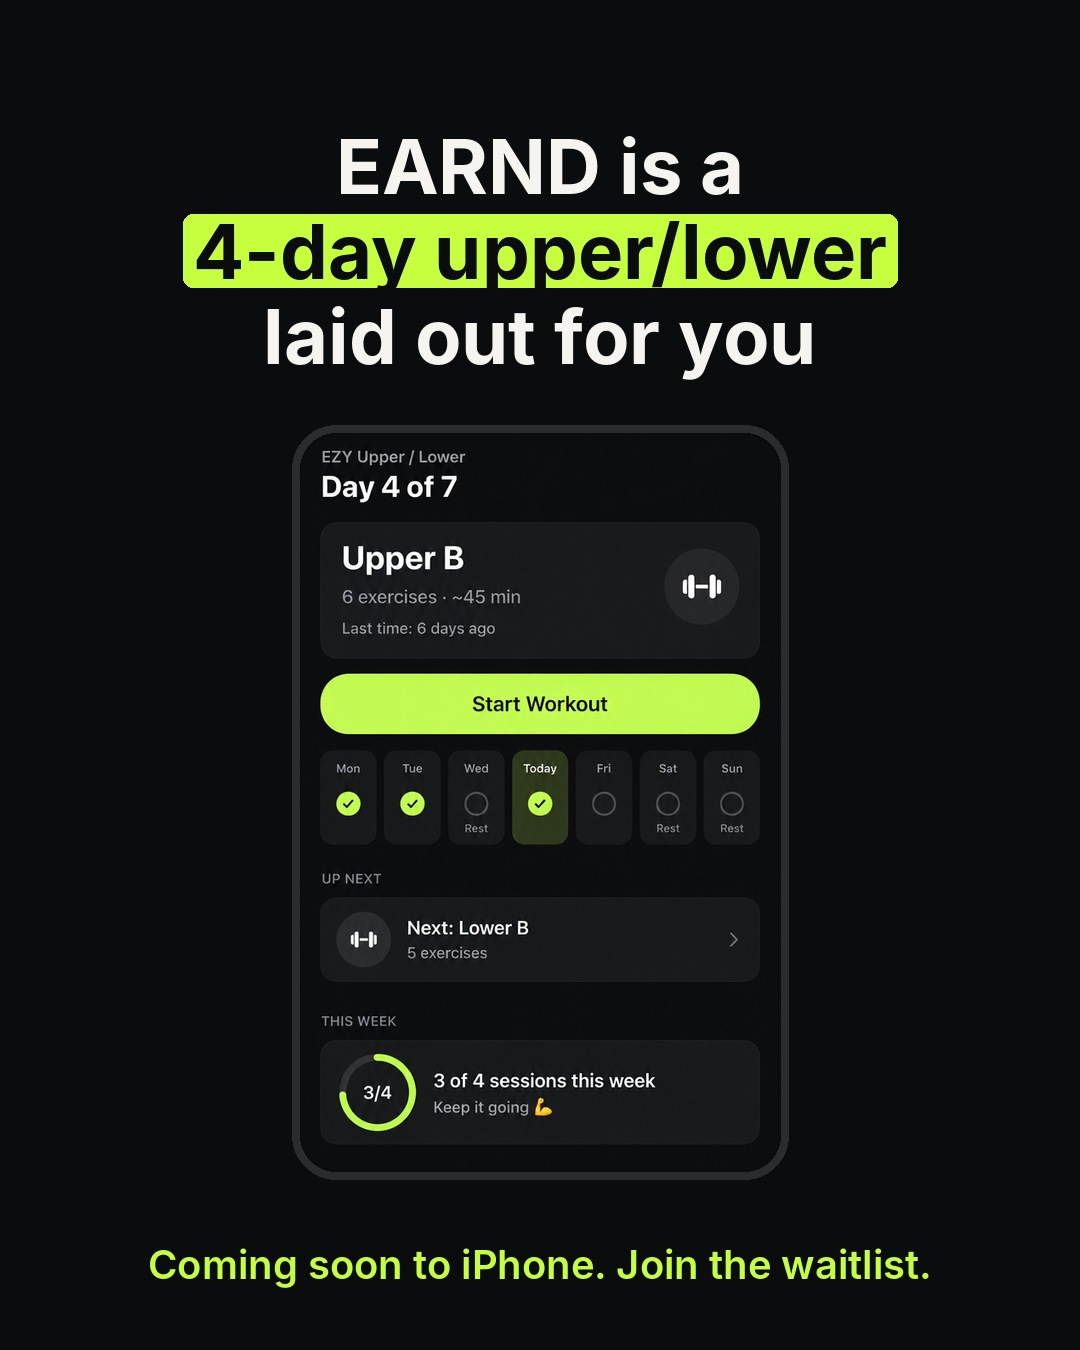
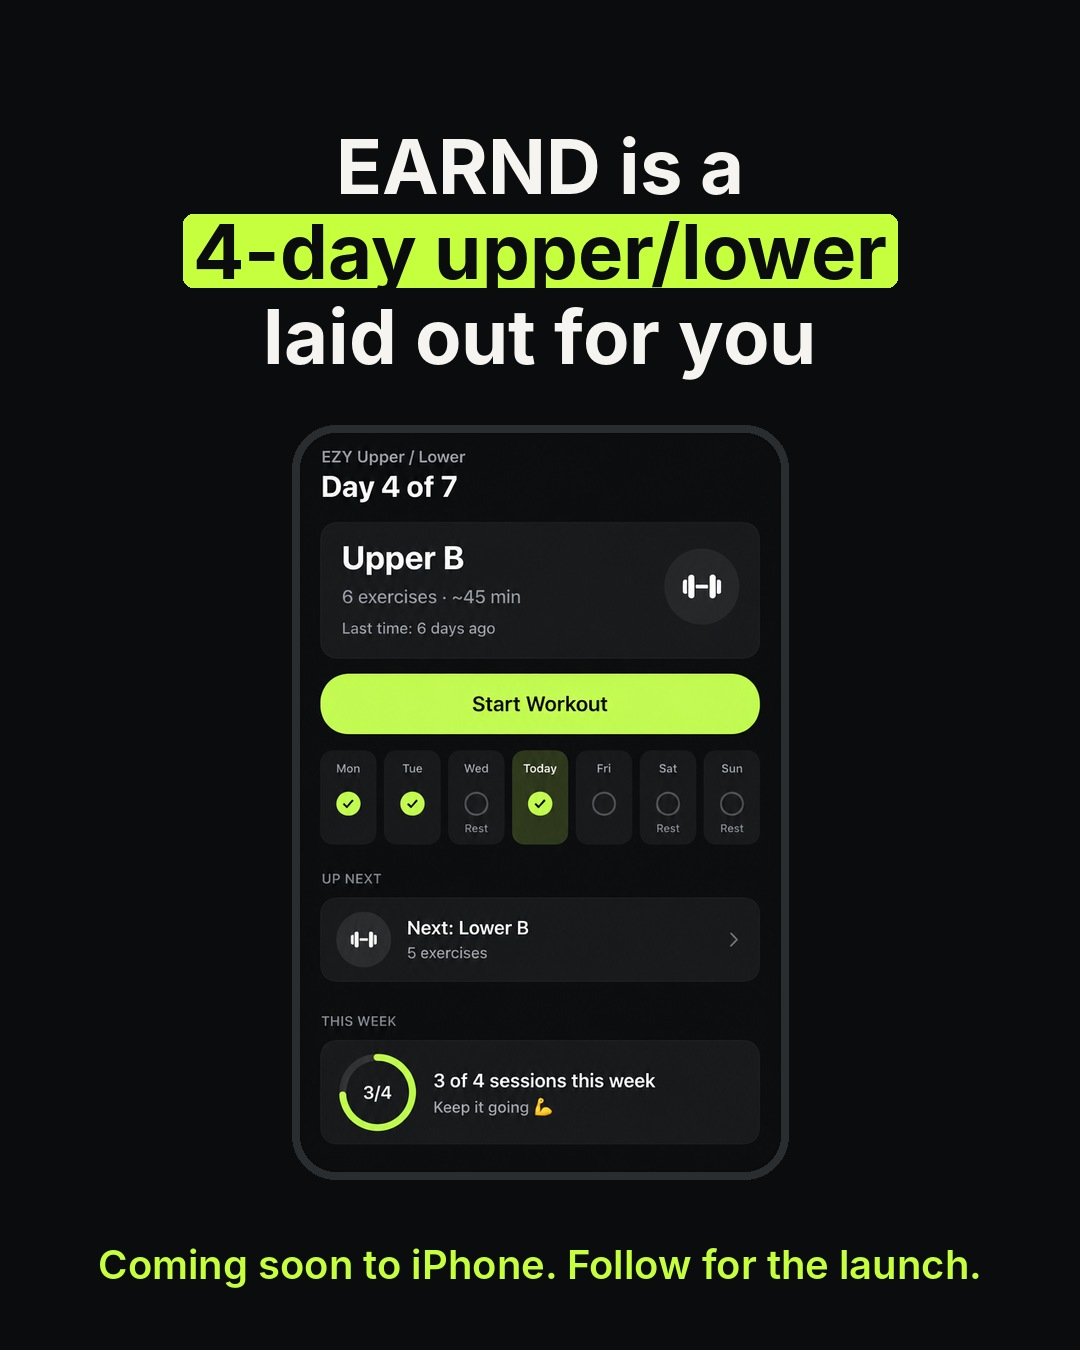
No waitlist (launch on Apple approval), no mascot in tutorials; fix tonight's 23:00 CTA
Claude-Session: https://claude.ai/code/session_01Ws8S991F2EukoMgPY9duxg

Changed region(s): [[0.4889, 0.9022, 0.9167, 0.9644], [0.0917, 0.9022, 0.4583, 0.9644]]

diff --git a/CLAUDE.md b/CLAUDE.md
@@ -26,12 +26,12 @@ default_app_slide: 4
 ## Standing rules
 
 - **Content brief (founder, 2026-11-24) = the source of truth for facts, claims and brand: `01-app/content-brief.md`.** Read it before writing any set. Key points:
-  - **The app:** EARND tells you exactly what to lift on every set, logs it in one tap, even from your Lock Screen, and only adds weight when you've earned it. **iPhone only, iOS 18+** (no Android, web or Apple Watch). Pre-launch: say "coming soon" / "join the waitlist", never "out now". Price $29.99/year or $6.99/month; hard paywall; **no free trial, no free version, no lifetime plan**.
+  - **The app:** EARND tells you exactly what to lift on every set, logs it in one tap, even from your Lock Screen, and only adds weight when you've earned it. **iPhone only, iOS 18+** (no Android, web or Apple Watch). Pre-launch: say "coming soon", never "out now" (no waitlist exists: founder 2026-11-24; launch = as soon as Apple approves). Price $29.99/year or $6.99/month; hard paywall; **no free trial, no free version, no lifetime plan**.
   - **Method:** Upper/Lower 4 days (Upper A, Lower A, rest, Upper B, Lower B, rest, rest); two hard working sets per exercise, each muscle twice a week (~5–6 hard sets per muscle per week); **double progression on 4–8 reps for every exercise** (every set to 8 with clean form → weight goes up, back near 4–5); ~1 rep in reserve, not to failure; **rest at least 3 min after compound lifts, 2:30 for single-joint work, 45–60 s between warm-ups**; calves first on lower days (3–5 s stretch); machine-based list incl. pendulum squat; **Week 0** practice week to find starting weights.
   - **Features, in content priority:** 1 **Lock Screen workouts (hero)** · 2 one-tap sets · 3 the target on every set · 4 the **EARNED** moment ("+2.5 kg EARNED") · 5 share card · 6 personalised plan with a 12-week **target** · 7 rest timer · 8 workout verdict · 9 progress chart + PRs.
   - **Approved claims:** "Know exactly what to lift on every set." · "Log a set in one tap, even from your Lock Screen." · "Weight only goes up when you've earned it." · "Upper / Lower, two hard sets, 4–8 reps. No junk volume." · "Built around double progression." · "Your data stays on your iPhone." · "Personalised plan with a 12-week target" (always a target/projection, never a promise).
   - **Never say:** guaranteed results; "free" / "free trial" / "lifetime"; **"AI" or "AI coach"** (there is no AI in the app); Android, Apple Watch, Apple Health, iCloud sync, nutrition/calorie or cardio tracking, video exercise demos; fake ratings, reviews, user counts or testimonials; medical/injury claims ("fixes back pain"); **Paul Carter / @liftrunbang1's name, face, clips or quotes, or any hint he endorses EARND** (his topics and the papers stay fine, our words).
-  - **Brand (@earndapp and anything EARND-branded):** voice direct, confident, a bit blunt, plain gym English, short sentences, numbers over adjectives, no hype words ("insane", "game-changer"). Colours bg #0B0C0D, text #F5F4F0, secondary #8A8E92, tertiary #5C6165, **lime #C6FF3D** (one accent per frame, for the number that matters), cards #1C1E20, strokes #2A2D30. Type Inter (Bold 700 headlines, SemiBold 600 subheads). Look: dark, minimal, **real app screens in a stroked phone frame**, one lime highlight, no gradients, no stock gym photos, **no mascot** (the graphite mascot is retired on @earndapp; the theme accounts keep their own characters: Ryo, Dale, the gold-line figures). Taglines: "Earn every kilo." / "Beat last week. Every week." / "Numbers that move."
+  - **Brand (@earndapp and anything EARND-branded):** voice direct, confident, a bit blunt, plain gym English, short sentences, numbers over adjectives, no hype words ("insane", "game-changer"). Colours bg #0B0C0D, text #F5F4F0, secondary #8A8E92, tertiary #5C6165, **lime #C6FF3D** (one accent per frame, for the number that matters), cards #1C1E20, strokes #2A2D30. Type Inter (Bold 700 headlines, SemiBold 600 subheads). Look: dark, minimal, **real app screens in a stroked phone frame**, one lime highlight, no gradients, no stock gym photos, **no mascot** (the graphite mascot is retired on @earndapp **and in the in-app exercise tutorials**, founder 2026-11-24; the theme accounts keep their own characters: Ryo, Dale, the gold-line figures). Taglines: "Earn every kilo." / "Beat last week. Every week." / "Numbers that move."
   - **Content pillars:** 1 the magic (Lock Screen ✓, one-tap sets) · 2 the method (why 2 sets of 4–8 beats 5 sets of 12) · 3 the moment (EARNED reveals) · 4 the problem (same weights for months, Notes-app logging, random workouts). Hooks to start from are in the brief §10.
 
 - Optimize each post for views. Judge formats weekly on total downloads.
@@ -70,7 +70,7 @@ default_app_slide: 4
 - Our accounts never comment on or engage with each other.
 - EARND has no free trial. Weekly reviews track paid subscriptions, not trials (the `trials` column in `07-results/revenue.csv` stays blank). Locate drop-offs with the funnel in `01-app/app-brief.md` → Pricing.
 - App launch postponed to **end of November** (founder, 2026-11-14; was Sat 14 Nov). Prelaunch CTAs stay until then. The line-art account and @whatif.overload start posting from 14 Nov regardless.
-- Prelaunch: every set ends with its account's prelaunch CTA from `accounts.json` (@earndapp: "Coming soon to iPhone. Join the waitlist." — content brief 2026-11-24; was "EARND launches soon. Follow for the launch."). No download CTA or links until `phase` is "launched" and `launch.download_url` is set. No trial references.
+- Prelaunch: every set ends with its account's prelaunch CTA from `accounts.json` (@earndapp: "Coming soon to iPhone. Follow for the launch." — founder 2026-11-24: **there is no waitlist**; the app launches as soon as Apple approves it. Never say "join the waitlist". Was "EARND launches soon. Follow for the launch."). No download CTA or links until `phase` is "launched" and `launch.download_url` is set. No trial references.
 - Numerical examples (e.g. 100 kg × 7 → 100 kg × 8) are always labelled "example" on the slide. Sets × reps prescriptions (e.g. 2 × 4–8) are shown plain, without the "example" tag (founder, 2026-10-30); weights in progression examples stay labelled "example". Exception: @whatif.overload's joke escalations (e.g. Dale's +2.5 kg/week) carry no "example" tag (founder, 2026-11-04).
 - Scheduling (content brief, founder 2026-11-24; replaces the 'move the session' rule): **the app has no rescheduling.** The sessions run in a fixed sequence (Upper A, Lower A, rest, Upper B, Lower B, rest, rest); training 2–3 days a week also works because the sequence just rolls on to the next session. Never say "move it" / "reschedule".
 - Never invent user experiences, testimonials, or independent endorsements.

diff --git a/05-tutorials/README.md b/05-tutorials/README.md
@@ -60,3 +60,7 @@ Free 5 s one-rep Kling clips from each start frame, vidstab, full loop, unless n
 | Single-leg extension | `v2/out/single-leg-extension.mp4` | for review (only the near leg moves) |
 | Single-leg curl | `v2/out/single-leg-curl.mp4` | for review: hard to see that only one leg works; may need a redo |
 | Calf press | — | **open**: the model keeps putting the heels on the plate (the clip bent the knees instead of the ankles). A seated calf raise frame works (`frames/calf-a4.png`); founder to choose |
+
+## Status 2026-11-24: mascot retired (founder)
+
+Founder 2026-11-24: **no mascot in the tutorials either** (content brief: no mascot in EARND's look). The v2 loops above (graphite mascot) are not to be shipped. Note: the content brief also lists "video exercise demos" as *not in the app*; the next tutorial style waits for the founder.
